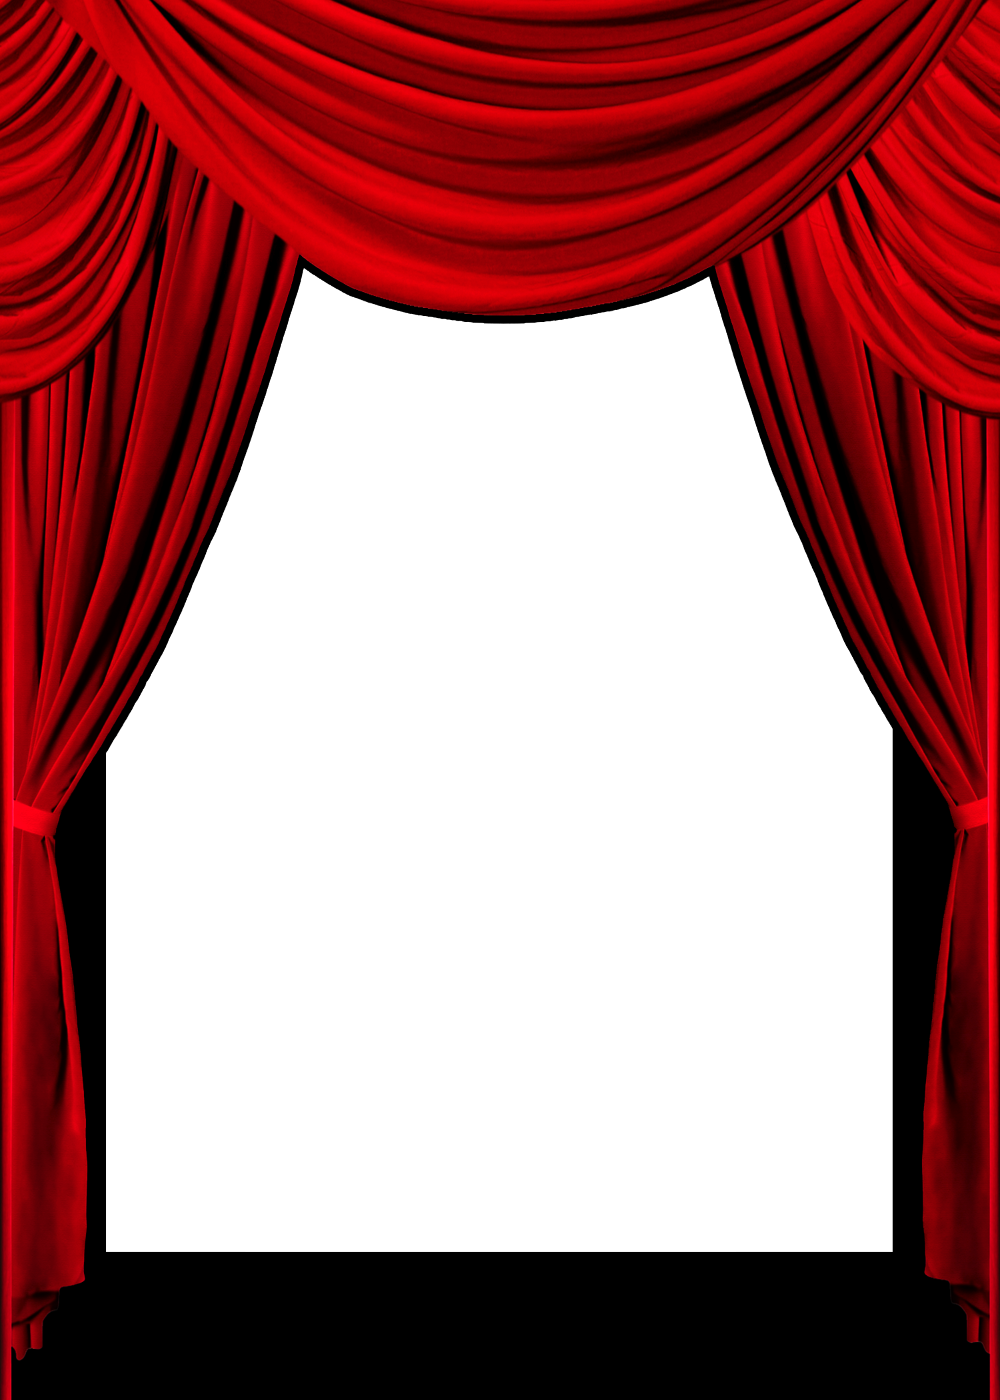
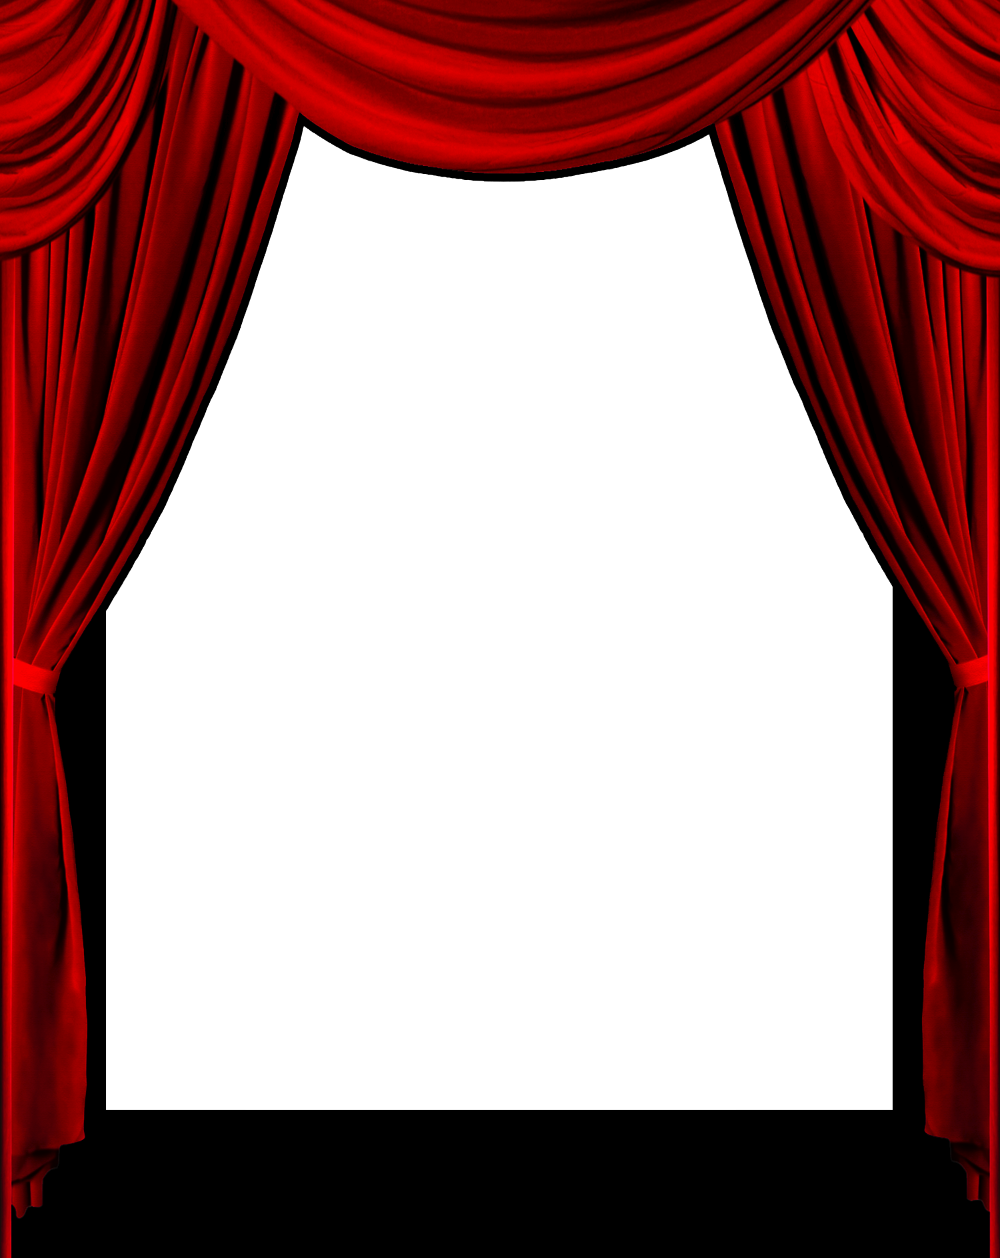
Split main into rsvp and schedule. Updated curtain layers image to have less top section.

diff --git a/app/assets/stylesheets/custom.css b/app/assets/stylesheets/custom.css
@@ -12,7 +12,7 @@ header {
 
 header h1 {
 	color: #272323;
-  font-size: 500%;
+  font-size: 550%;
 	font-weight: 700;
 	text-align: center;
 }
@@ -31,7 +31,7 @@ section {
 
 section h1 {
 	color: #D0D0D0;
-  font-size: 150%;
+  font-size: 175%;
 }
 
 section h2 {
@@ -42,7 +42,7 @@ section h2 {
 #page-wrap { 
 	position: relative; 
 	width: 450px; 
-	margin: 400px auto; 
+	margin: 260px auto; 
 	padding: 20px; 
 	background: black; 
 	-moz-box-shadow: 0 0 20px black; 

diff --git a/public/index.html b/public/index.html
@@ -8,12 +8,12 @@
 			</style>
 		
 		<!-- auto redirect in 5 secs -->
-		<meta http-equiv="refresh" content="5;url=/main">
+		<meta http-equiv="refresh" content="5;url=/rsvp">
 
   </head>
   <body>
 	<div align="center">
-		<a href="/main"><img src="/images/d2newyorklogo.png" border=0></a>
+		<a href="/rsvp"><img src="/images/d2newyorklogo.png" border=0></a>
 	</div>
 
   </body>

diff --git a/config/routes.rb b/config/routes.rb
@@ -5,7 +5,8 @@ D2newyork::Application.routes.draw do
   # root :to => '/public/index.html'
   # don't need this route to go to just a normal index.html page
 
-  match '/main',      :to => 'pages#main'
+  match '/rsvp',      :to => 'pages#rsvp'
+  match '/schedule',  :to => 'pages#schedule'
   match '/info',      :to => 'pages#info'
   match '/registry',  :to => 'pages#registry'
   match '/fun',       :to => 'pages#fun'

diff --git a/app/controllers/pages_controller.rb b/app/controllers/pages_controller.rb
@@ -1,12 +1,16 @@
 class PagesController < ApplicationController
-  def main
-    @title = "Main"
+  def rsvp
+    @title = "RSVP"
     
     @email = Email.new
   end
   
   def show
     @email = Email.find(params[:id])
+  end
+
+  def schedule
+    @title = "Schedule"
   end
 
   def info
